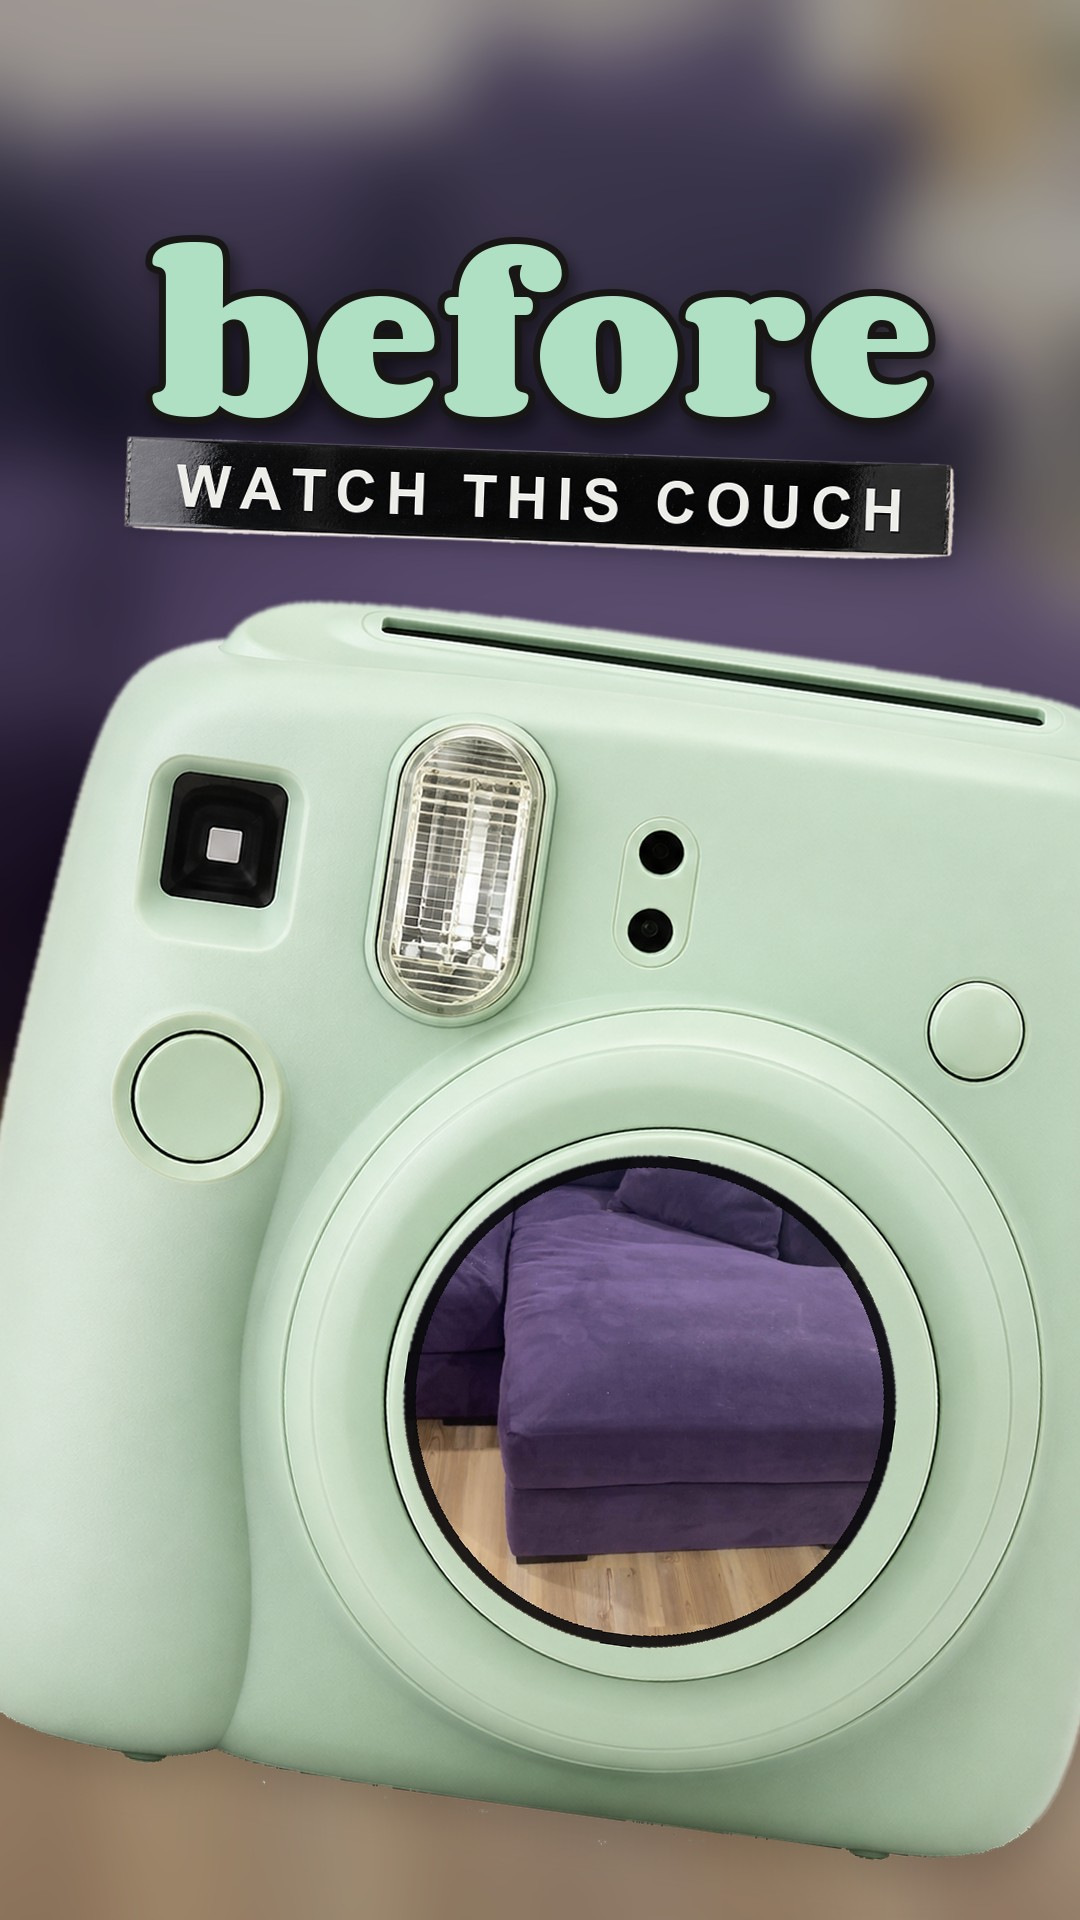
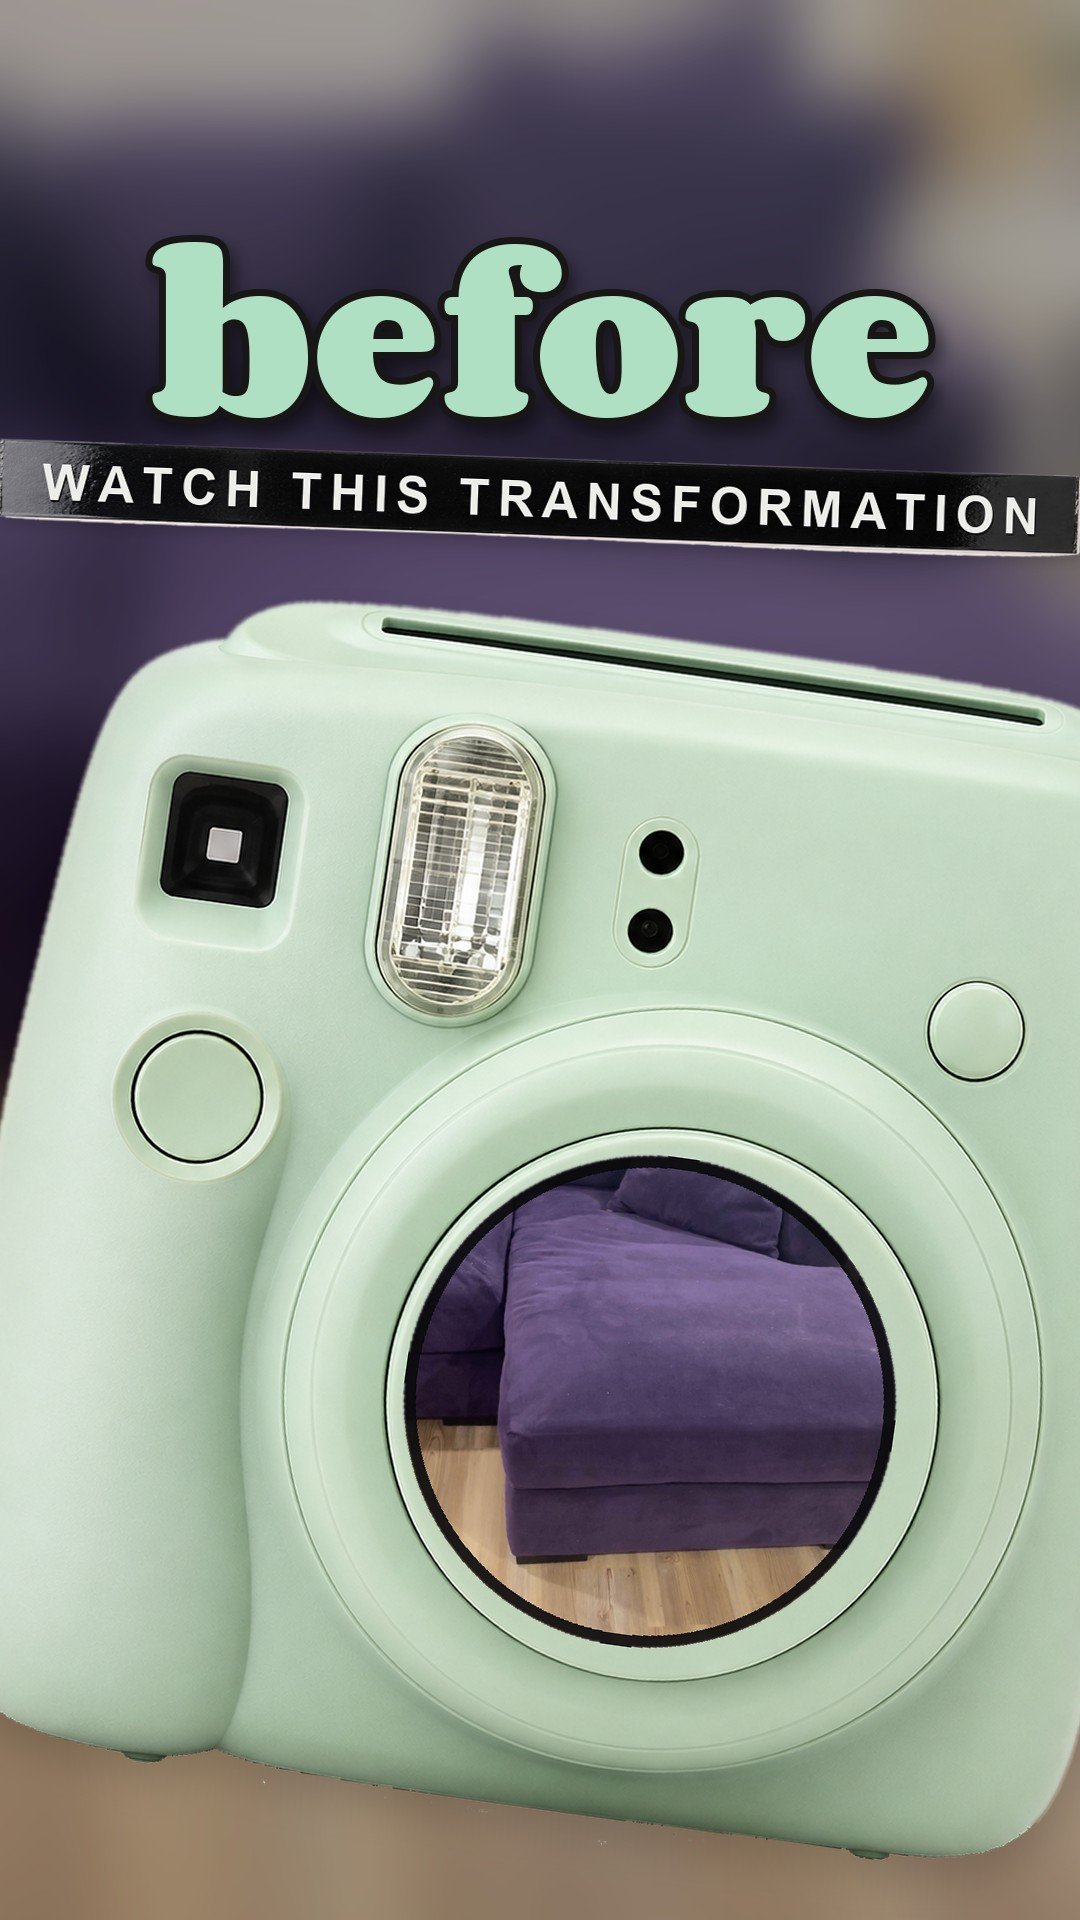
Reel Template Packs: #3 storyboard approved (hook: watch this transformation)

Changed region(s): [[0.0, 0.2188, 1.0, 0.3125]]

diff --git a/automation/reel-template-pack/build/storyboard_03.py b/automation/reel-template-pack/build/storyboard_03.py
@@ -134,7 +134,7 @@ def f1():
     cam, s = camera(1180, BEFORE)
     place(im, shadow(cam), (W / 2 + 30, 1230), -8)
     big(im, (W / 2, 330), 'before', 190)
-    place(im, label('WATCH THIS COUCH'), (W / 2, 500), -2)
+    place(im, label('WATCH THIS TRANSFORMATION', 50), (W / 2, 500), -2)
     return im
 
 def f2():

diff --git a/automation/reel-template-pack/03-before-and-after/plan.md b/automation/reel-template-pack/03-before-and-after/plan.md
@@ -72,3 +72,8 @@ colour) with a black edge; small words on label-maker tape. CTA is ManyChat styl
 the work (cleaning, sped up), plays full screen right after the snap with the giant half timer turning over it,
 see-through. The order is now before > the work > after prints and develops > breaks out > then/now > CTA. The develop
 beat no longer has the timer. 4 clips: before, the work, after (starts with a hand over the lens), product.
+
+**Approved 2026-10-17** (v3.1, with the hook label changed to "WATCH THIS TRANSFORMATION"). Next: animate through the
+engine as `build/templates/t03.py` (the old batch-1 t03 is replaced), the way #2 was done: flipbooks for the print
+sliding out, the develop and the dial turning; the lens zoom, the break-out and the then/now slide as keyframes.
+Corben Bold needs its CapCut font id (the cache folder is AITextTemplate/Resource/4624078377714242870).
